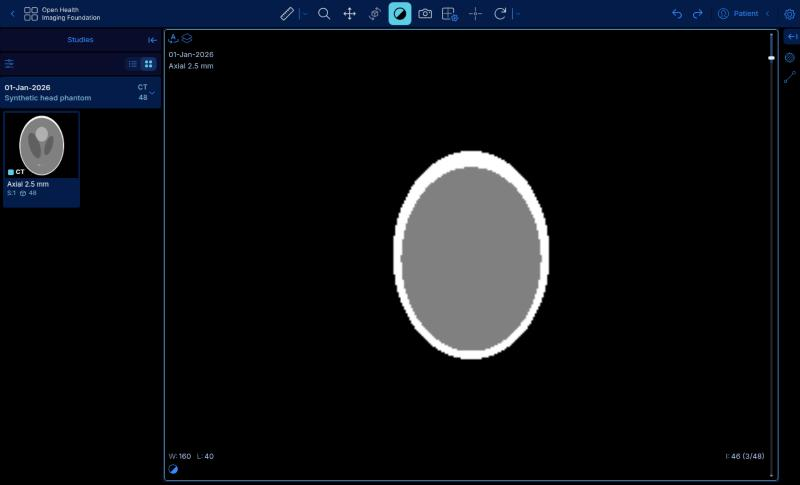
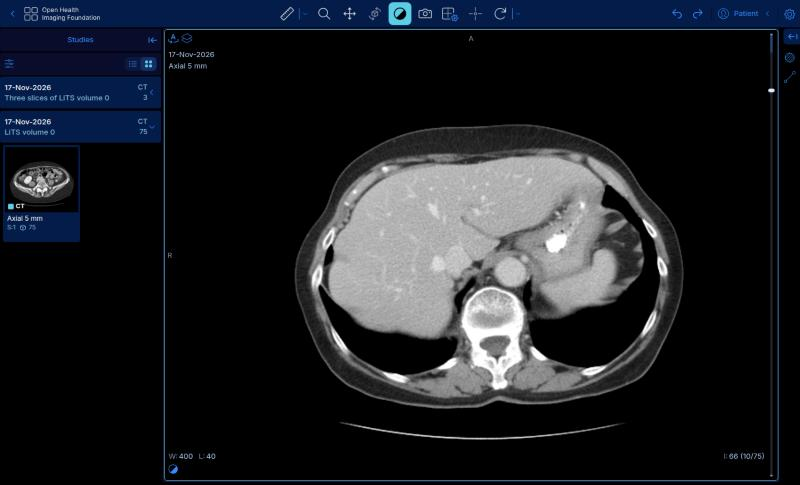
site, docs: the pictures show the real scan

diff --git a/site/index.html b/site/index.html
@@ -39,7 +39,7 @@
         <li>An audit trail of who stored, read, searched and deleted what</li>
       </ul>
       <figure>
-        <img src="img/studies.jpg" width="800" height="450" alt="The study list of pacs-rs: two studies with their patient, date, modality and counts, and a summary of the archive beside them.">
+        <img src="img/studies.jpg" width="800" height="450" alt="The study list of pacs-rs: two studies of one patient with their date, modality and counts, and a summary of the archive beside them.">
       </figure>
     </div>
   </div>
@@ -55,7 +55,7 @@
         <li>Priors of the same patient beside the current study</li>
       </ul>
       <figure>
-        <img src="img/viewer.jpg" width="800" height="450" alt="The viewer of pacs-rs showing a slice of a synthetic head phantom, with its tools along the top and the series at the left.">
+        <img src="img/viewer.jpg" width="800" height="450" alt="The viewer of pacs-rs showing a slice through the liver of an abdominal CT, with its tools along the top and the series at the left.">
       </figure>
     </div>
   </div>
@@ -83,7 +83,7 @@
 <section class="try">
   <div class="narrow">
     <h2>Try it in five minutes</h2>
-    <p>Docker, one file, and a sample study with no patient behind it.</p>
+    <p>Docker, one file, and three slices of a public CT to send it.</p>
 <pre><code>curl -fsSLO https://raw.githubusercontent.com/Aegyptiacus11/pacs-rs/main/compose.yaml
 docker compose up -d --wait</code></pre>
     <p>Then open <code>http://127.0.0.1:8080/ui/</code>, or follow the <a href="docs/quickstart.html">quickstart</a>, which sends a first study and asks for it back over HTTP.</p>
@@ -141,6 +141,7 @@ docker compose up -d --wait</code></pre>
 <footer>
   <div class="wide">
     <span>pacs-rs is open source, under MIT or Apache-2.0. Written in Rust.</span>
+    <span>The scan in the pictures is from the public dataset LiTS, <a href="docs/sample-study.html">credited here</a>.</span>
     <nav aria-label="Footer">
       <a href="docs/">Documentation</a>
       <a href="https://github.com/Aegyptiacus11/pacs-rs">Source</a>

diff --git a/docs/viewers.md b/docs/viewers.md
@@ -6,7 +6,9 @@ viewer that speaks [DICOMweb](dicomweb.md). This page connects one, the
 written, with the image `ohif/app:latest` of 3 November 2026 and the server of the
 [quickstart](quickstart.md); what was not tried is said at the end.
 
-![The OHIF Viewer showing a slice of a synthetic head phantom read from pacs-rs, with the series at the left.](images/viewer-ohif.jpg)
+![The OHIF Viewer showing a slice through the liver of an abdominal CT read from pacs-rs, with the patient's two studies at the left.](images/viewer-ohif.jpg)
+
+*The scan is volume 0 of LiTS, a public research dataset ([the sample study](sample-study.md)).*
 
 ## What a viewer needs from pacs-rs
 
@@ -86,7 +88,7 @@ Why these values:
 - **`staticWado: false`**: pacs-rs answers requests; it is not a folder of files written
   ahead.
 
-What the viewer asked of the server while a study of 48 images was opened and scrolled: the
+What the viewer asked of the server while a study of 75 images was opened and scrolled: the
 study by its UID, its series, the studies of the same patient, the metadata of the series in
 one request, and each frame once (`.../instances/<uid>/frames/1`). Frames come back as they
 are stored, compressed without loss, and the viewer decodes them.
